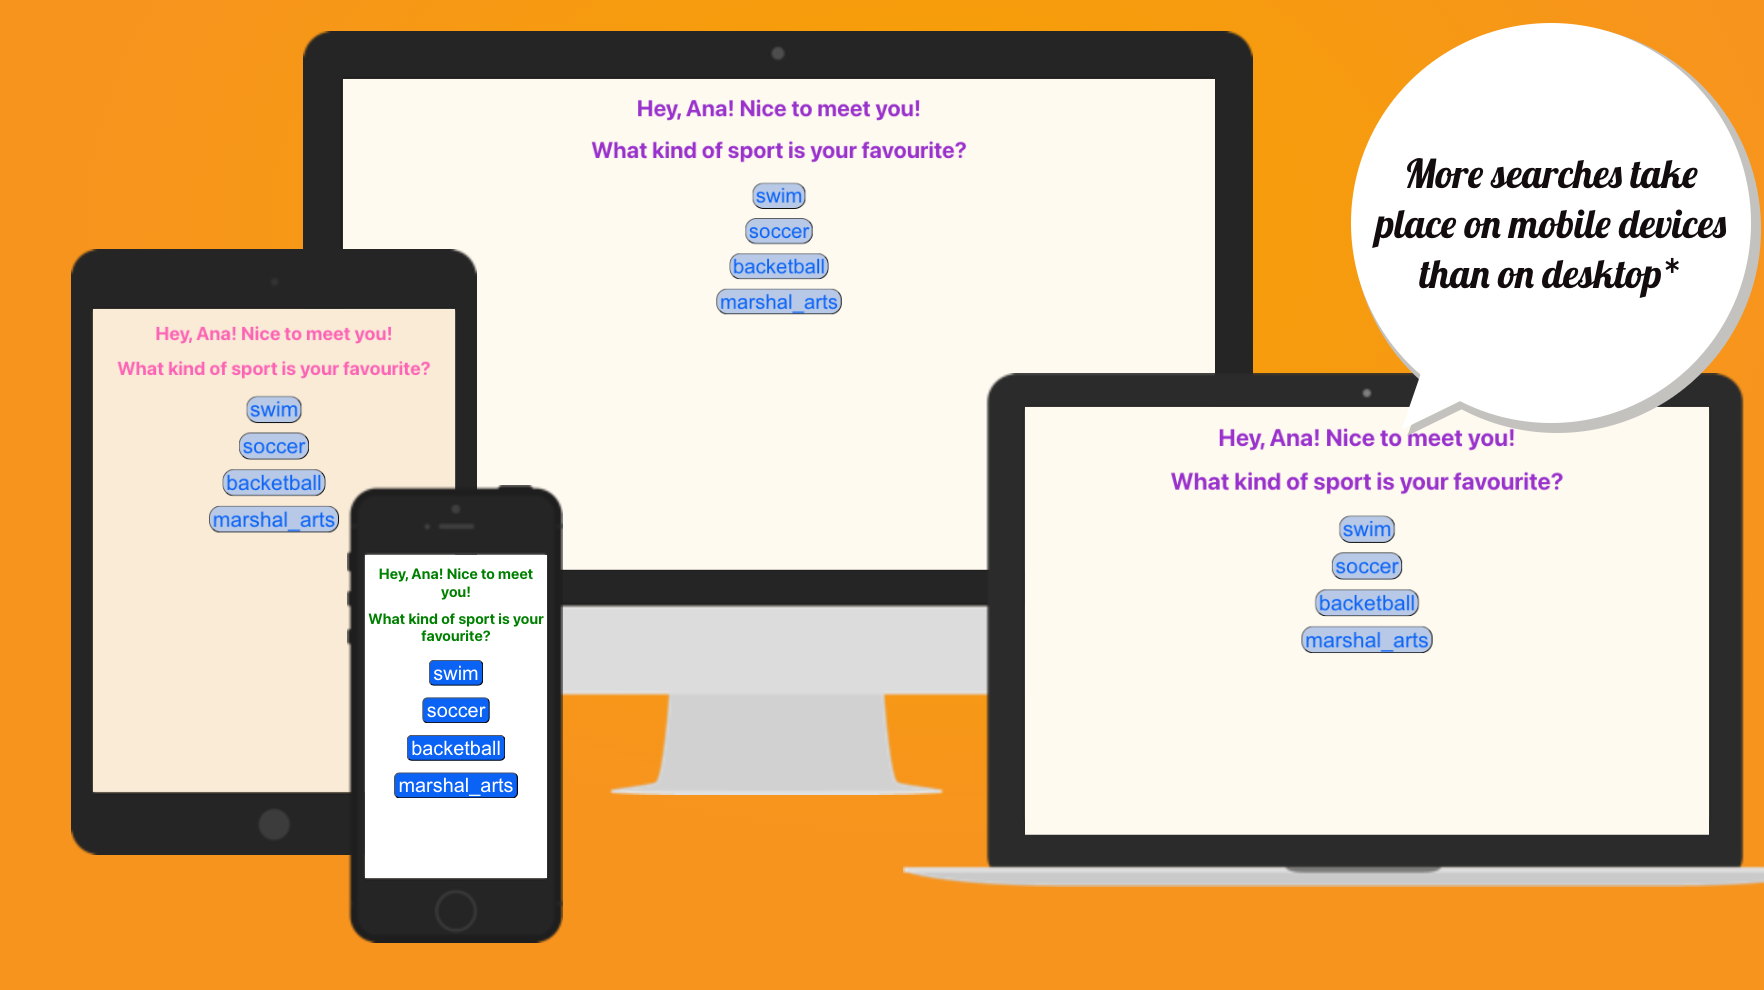
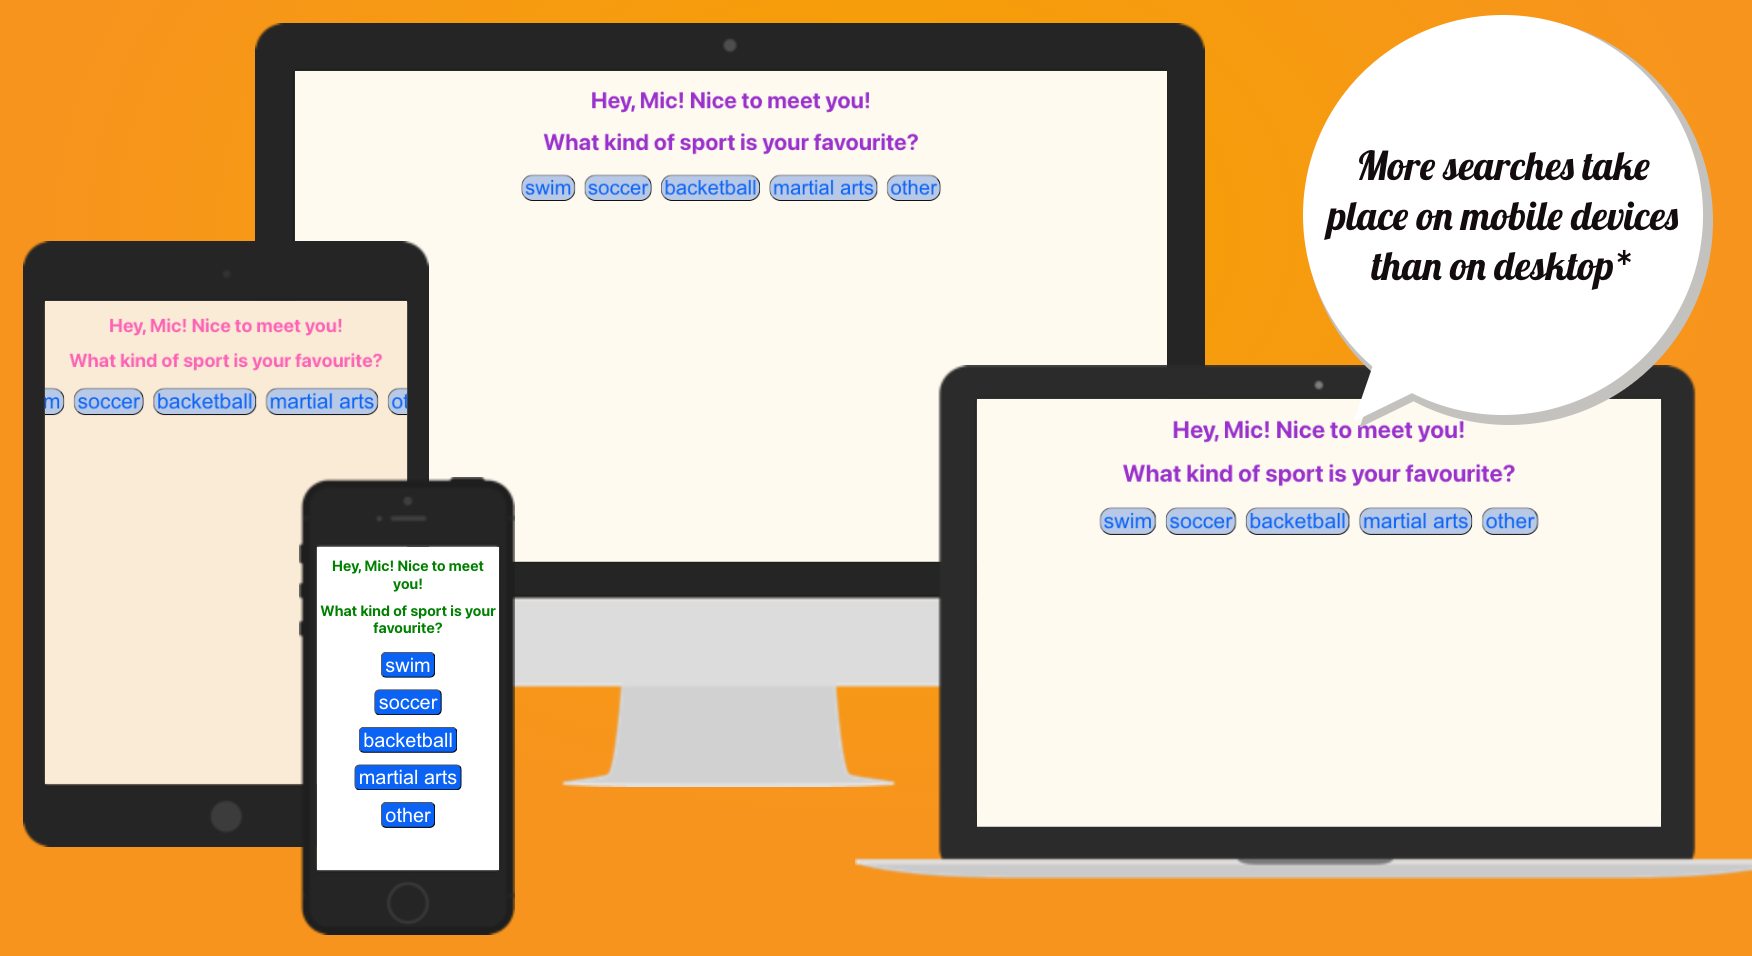
Vhanged layout a deleted some projects

Changed region(s): [[0.0, 0.0, 1.0, 1.0]]

diff --git a/index.html b/index.html
@@ -61,11 +61,11 @@
         <h2>Projects</h2>
         <div class="projects-wrapper" id="projects">
 
-          <article class="project">
+          <!-- <article class="project">
             <a href="https://annavn.github.io/unplugged/" target="_blank"><img src="img/unplugged-responsive.png"
-                alt="girl standing on the bridge showing on a different types of devices"></a>
+                alt="girl standing on the bridge showing on different types of devices"></a>
             <h3>Unplugged</h3>
-            <p class="description">A responsive multy-page website for worker's fallback , provides Google maps usage.
+            <p class="description">A responsive multi-page website for worker's retreat, provides Google map usage.
             </p>
             <p><span>Skills: </span>CSS3, Flexbox, HTML5, Media Queries, Responsive Typography
             </p>
@@ -73,15 +73,15 @@
             </p>
             <a href="https://annavn.github.io/unplugged/" target="_blank" class="but">Live
               page</a>
-          </article>
+          </article> -->
 
           <article class="project">
             <a href="https://annavn.github.io/responsive-rogue-pickings/" target="_blank"><img
                 src="img/rogue-pickings-responsive.png"
-                alt="A Welcome page of a cafe showing on a different types of devices"></a>
+                alt="A Welcome page of a cafe showing on different types of devices"></a>
             <h3>Rogue-pickings
             </h3>
-            <p class="description">A responsive one-page website of a cafe.
+            <p class="description">A responsive one-page cafe website.
             </p>
             <p><span>Skills: </span>CSS3, Flexbox, HTML5, Media Queries, Responsive Typography
             </p>
@@ -93,10 +93,10 @@
           <article class="project">
             <a href="https://annavn.github.io/guess-the-word-game/" target="_blank"><img
                 src="img/guess-the-word-responsive.png" alt="A field, guess button and message place to guess the word
-                showing on a different types of devices"></a>
+                showing on different types of devices"></a>
             <h3>Guess-the-word-game resp
             </h3>
-            <p class="description">A responsive guess the word game with a small fireworks if you guessed right.
+            <p class="description">A responsive guess the word game with a bit of fireworks if you guessed right.
             </p>
             <p><span>Skills: </span>Manipulate the DOM, JavaScript
             </p>
@@ -108,7 +108,7 @@
           <article class="project">
             <a href="https://annavn.github.io/GitHub-repo-gallery/" target="_blank"><img
                 src="img/github-repo-galer-responsive.png"
-                alt="A list of repos showing on a different types of devices"></a>
+                alt="A list of repos showing on different types of devices"></a>
             <h3>GitHub-repo-gallery resp
             </h3>
             <p class="description">A table of repos with links to GitHub pages.
@@ -124,9 +124,9 @@
           <article class="project">
             <a href="https://annavn.github.io/unplugged-music/" target="_blank"><img
                 src="img/unplugged-music-repsonsive.png"
-                alt="A picture of concert and columns of music news showing on a different types of devices"></a>
+                alt="A picture of concert and columns of music news showing on different types of devices"></a>
             <h3>Unplugged music</h3>
-            <p class="description">A responsive multy-page website contains news about music.
+            <p class="description">A responsive multi-page website contains music news.
             </p>
             <p><span>Skills: </span>CSS3, Flexbox, HTML5, Media Queries, Responsive Typography
             </p>
@@ -136,19 +136,19 @@
               page</a>
           </article>
 
-          <article class="project">
+          <!-- <article class="project">
             <a href="https://annavn.github.io/guess-the-number/" target="_blank"><img src="img/guess-the-number.png"
-                alt="A field, guess button and message places for guess the number game"></a>
+                alt="guess the number game"></a>
             <h3>Guess-the-number
             </h3>
-            <p class="description">Guess the number game that checks a user guess, counts score, hightscore.
+            <p class="description">Guess the number game that checks the user's guess, shows the score.
             </p>
             <p><span>Skills: </span>Manipulate the DOM, JavaScript
             </p>
             <p><span>Tools: </span>GitHub, Visual Studio
             </p>
             <a href="https://annavn.github.io/guess-the-number/" target="_blank" class="but">Live page</a>
-          </article>
+          </article> -->
 
           <article class="project">
             <h3>Greeting and sport choice buttons</h3>
@@ -156,9 +156,10 @@
               <a href="https://sport-choice.vercel.app/" target="_blank"><img src="img/sport-choice.png"
                   alt="Greeting and sport choice buttons"></a>
             </figure>
-            <p class="description">Simple greet page with sport-choice buttons.
+            <p class="description">Simple greet page with sport-choice buttons and info about kinds of sport reveals
+              after pressing a button.
             </p>
-            <p><span>Skills: </span>Manipulate the DOM, React
+            <p><span>Skills: </span>Manipulate the DOM, React, JavaScript
             </p>
             <p class="tools"><span>Tools: </span>GitHub, Visual Studio
             </p>
@@ -173,23 +174,25 @@
       <div class="skills" id="skills">
         <h2>Skills</h2>
         <div class="content-wrapper">
-          <h3>Developer Skills</h3>
-          <div class="skills-items">
-            <p class="skill">HTML</p>
-            <p class="skill">CSS</p>
-            <p class="skill">Pesponsive Web Development</p>
-            <p class="skill">JavaScript</p>
-            <p class="skill">React</p>
+          <div class="dev">
+            <h3>Developer Skills</h3>
+            <div class="skills-items">
+              <p class="skill"><i class="fab fa-html5"></i>HTML</p>
+              <p class="skill"><i class="fab fa-css3-alt"></i>CSS</p>
+              <p class=" skill"><i class="fas fa-laptop-code"></i>Pesponsive Web Development</p>
+              <p class="skill"><i class="fab fa-js"></i>JavaScript</p>
+              <p class="skill"><i class="fab fa-react"></i>React</p>
+            </div>
           </div>
 
-
-
-          <h3>Tech Stack</h3>
-          <div class="tools-items">
-            <p class="tool">GIT</p>
-            <p class="tool">GitHub</p>
-            <p class="tool">Visual Studio</p>
-            <p class="tool">CodeSandBox</p>
+          <div class="tech">
+            <h3>Tools</h3>
+            <div class="tools-items">
+              <p class="tool"><i class="fab fa-github"></i>GIT & GitHub</p>
+              <p class="tool"><img src="img/vs.webp" class="small" /> Visual Studio Code</p>
+              <p class=" tool"><img src="img/codesandbox.png" class="small" />CodeSandBox</p>
+              <p class="tool"><i class="fab fa-chrome"></i>Chrome DevTools</p>
+            </div>
           </div>
         </div>
 
@@ -203,10 +206,11 @@
           <p>I'm a friendly, communicative, open to new interesting and positive things person.
             I love to solve puzzles. It helps me because I am very attentive to
             details.
-            I love to create functional and beautiful sites where I can use my organization skills and eye for detail to
-            write neat and tidy code.
+            I love to create functional and beautiful sites where I can use my organizational skills and eye for detail
+            to
+            write neat and clean code.
           </p>
-          <h2>Something</h2>
+
         </div>
       </div>
     </section>
@@ -219,13 +223,17 @@
         <h2>Let's Connect</h2>
         <div class="contact" id="contact">
           <div class="contact-info">
-            <p><a href="mailto:email&body=Hello?subject=Question">Email</a></p>
+            <p><a href="mailto:email&body=Hello?subject=Question" class="email">Email</a></p>
           </div>
 
           <div class="contact social">
             <div class="social-icons">
-              <p><a href="https://github.com/AnnaVN" target="_blank"><i class="fab fa-github"></i></a></p>
-              <p><a href="https://www.linkedin.com/in/anastasiia-nagdaseva-a66425251" target="_blank"><i
+              <p class="icons"><a href="https://github.com/AnnaVN" target="_blank"><i class="fab fa-github"></i>
+
+                </a>
+              </p>
+
+              <p class="icons"><a href="https://www.linkedin.com/in/anastasiia-nagdaseva-a66425251" target="_blank"><i
                     class="fab fa-linkedin"></i></a></p>
             </div>
           </div>
@@ -233,7 +241,7 @@
       </div>
     </div>
 
-    <p class="copyright">Copyright
+    <p class="copyright">
       <script>document.write(new Date().getFullYear())</script> | Anastasiia Nagdaseva
     </p>
     <!-- <div class="copyright">

diff --git a/css/style.css b/css/style.css
@@ -197,7 +197,11 @@ footer h2 {
   font-style: normal;
 }
 
-footer .contact-info p a {
+/* footer .contact-info p a {
+  color: #e2e3ed;
+} */
+
+footer .email {
   color: #e2e3ed;
 }
 
@@ -227,8 +231,8 @@ footer .social-icons {
 footer .social-icons p {
   background-color: #e2e3ed;
   border-radius: 50%;
-  width: 40px;
-  height: 40px;
+  width: 55px;
+  height: 55px;
   display: flex;
   justify-content: center;
   align-items: center;
@@ -236,14 +240,16 @@ footer .social-icons p {
 }
 
 footer .social-icons p i {
-  font-size: 1.3rem;
+  font-size: 2rem;
   padding: 2px;
+  color: #222;
 }
 
 footer .copyright {
   width: 95%;
   text-align: left;
   padding-top: 40px;
+  padding-left: 20px;
 }
 
 /*** Mobile ***/
@@ -307,6 +313,21 @@ main img {
 
 .skills .content-wrapper {
   width: 95%;
+  display: flex;
+  justify-content: center;
+  flex-direction: column;
+}
+
+.skills-items p i,
+.tech p i {
+  padding-right: 10px;
+  color: #222;
+}
+
+.small {
+  width: 30px;
+  height: 30px;
+  padding-right: 10px;
 }
 
 .skills h2 {
@@ -472,6 +493,11 @@ main img {
 
   footer .copyright {
     width: 100%;
+  }
+
+  .skills .content-wrapper {
+    flex-direction: row;
+    justify-content: space-evenly;
   }
 }
 
